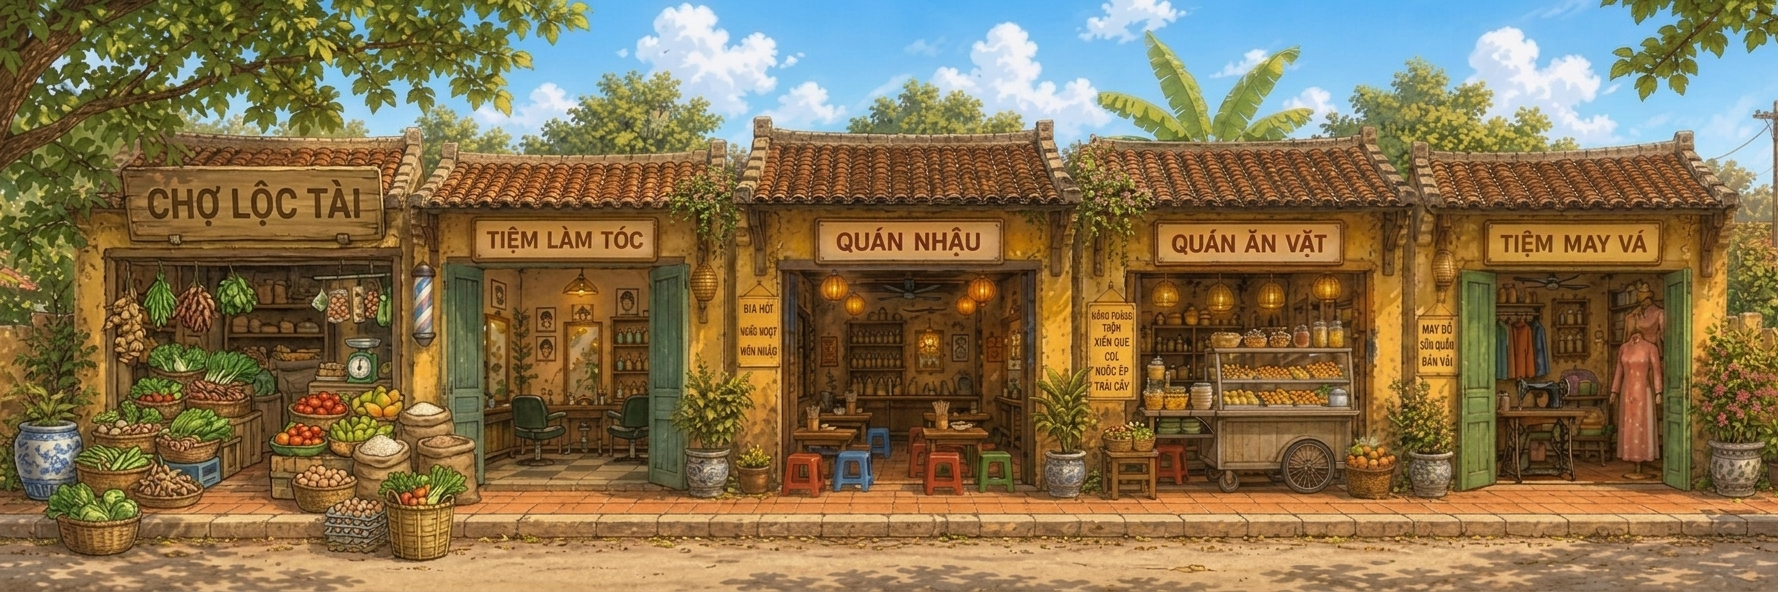
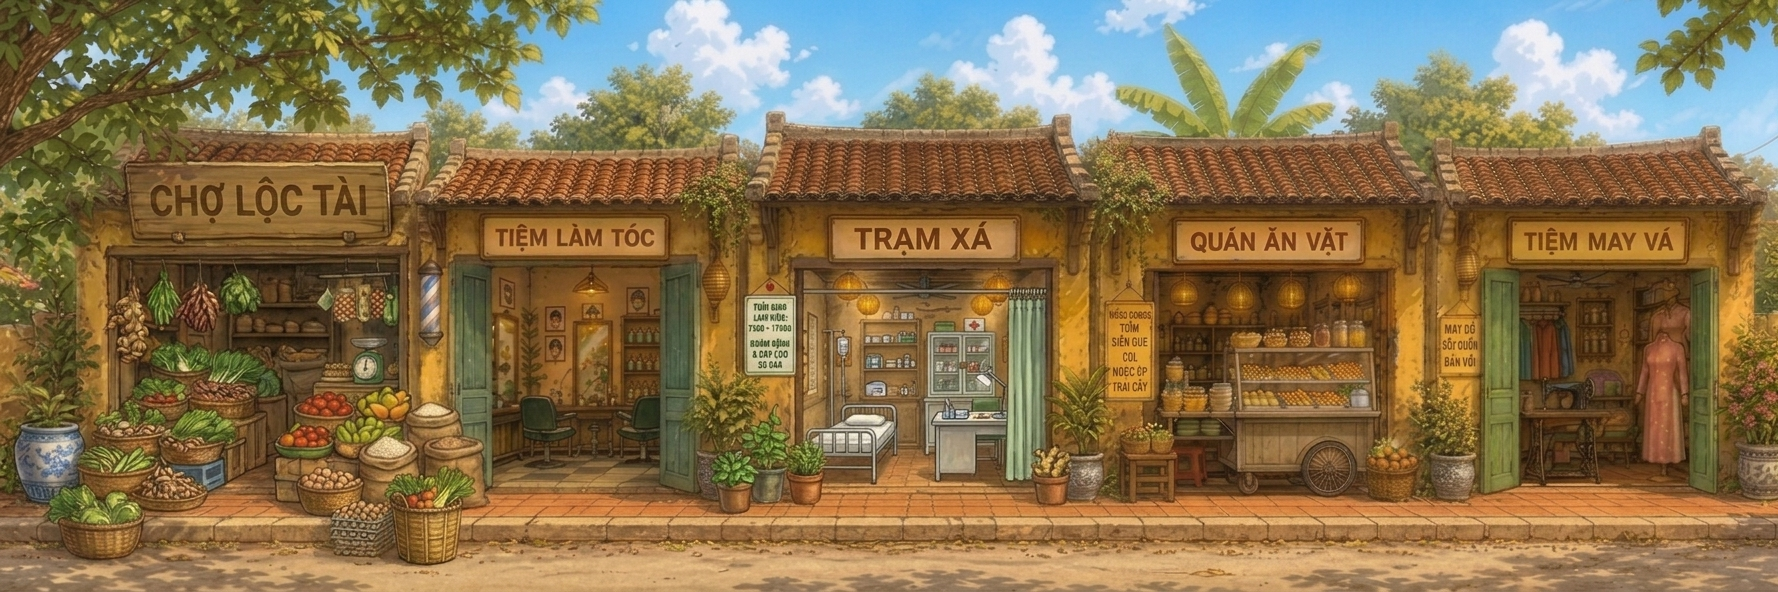
fix tram xa

diff --git a/game.js b/game.js
@@ -1068,7 +1068,7 @@
   const MAP_SHOPS = [
     { id: "cho", name: "Chợ Lộc Tài", rect: [20, 120, 395, 450], go: () => openMarket() },
     { id: "toc", name: "Tiệm làm tóc", rect: [415, 120, 317, 445] },
-    { id: "nhau", name: "Quán nhậu", rect: [732, 115, 340, 450] },
+    { id: "nhau", name: "Trạm xá", rect: [732, 115, 340, 450] },
     { id: "anvat", name: "Quán ăn vặt", rect: [1075, 120, 335, 445] },
     { id: "mayva", name: "Tiệm may vá", rect: [1410, 120, 335, 445] },
   ];
